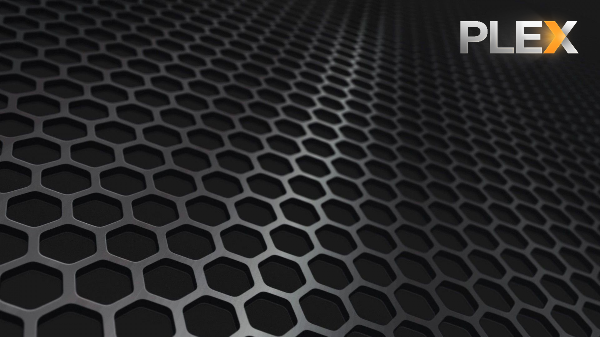
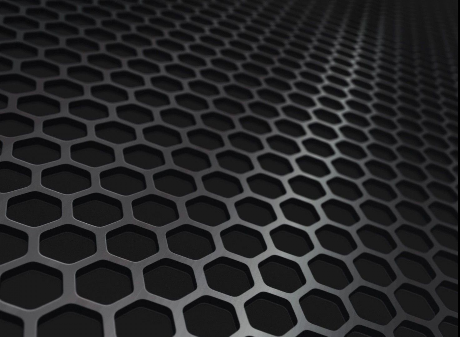
Style.CSS Change Plex box background
-Stixx

diff --git a/assets/css/style.css b/assets/css/style.css
@@ -119,7 +119,7 @@ ul li:hover > ul {
 }
 
 .box-item:nth-of-type(2) {
-  background: url('..//images/plexicon.png') no-repeat center center;
+  background: url('..//images/plexmetalbackground.png') no-repeat center center;
   background-size: cover;
 }
 
